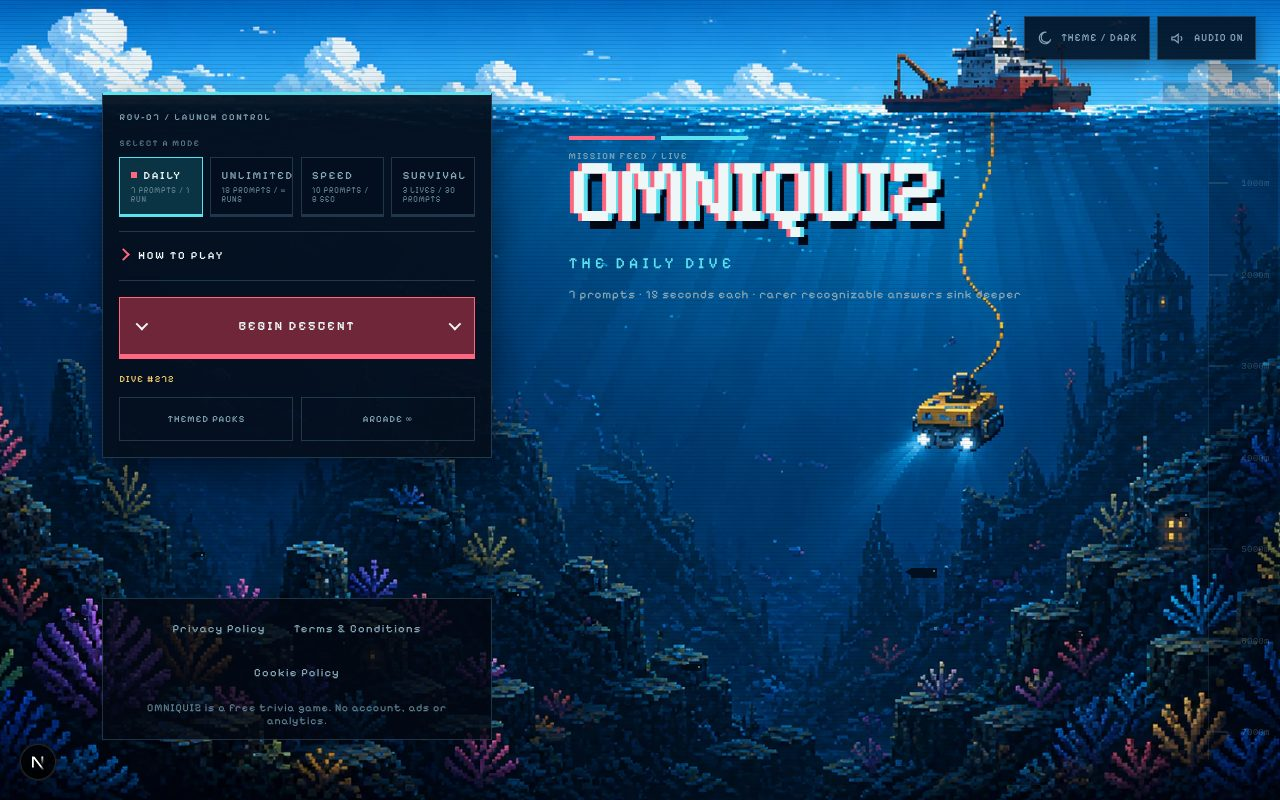
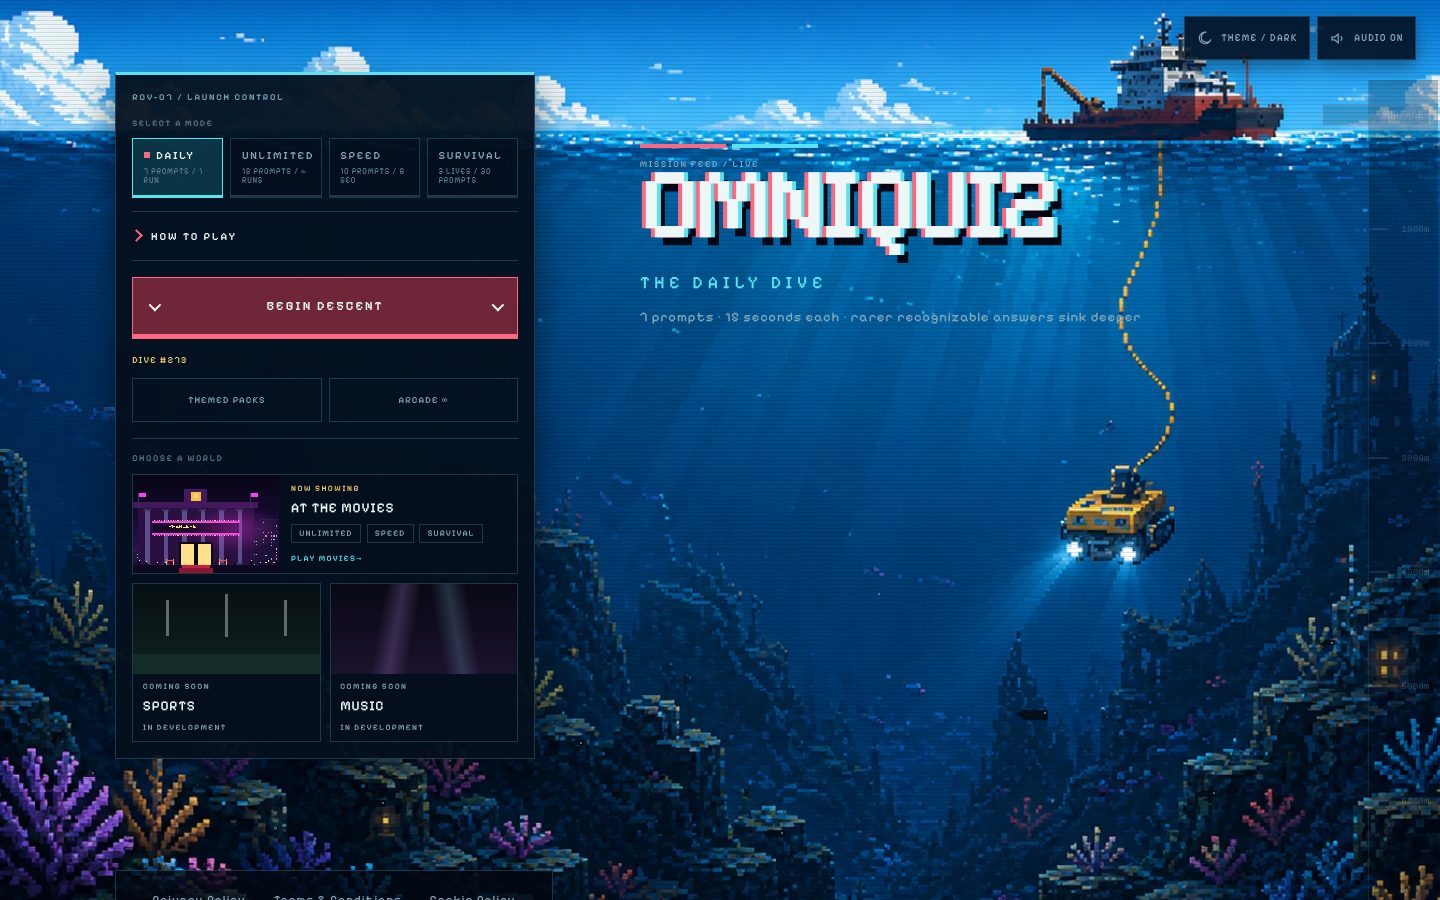
Document pack environments, navigation and Krillion status
Architecture notes cover the environment contract, how Sports and Music
would plug in, and the exit and resume rules. Content sources record the
generated cinema art. Release readiness records that Krillion is a
third-party product and lists the clean-up still required. README
screenshots show the Movies world.

Claude-Session: https://claude.ai/code/session_01V6UY6Cjog2rqtTNUkWuJcd

diff --git a/README.md b/README.md
@@ -1,6 +1,8 @@
 # OMNIQUIZ
 
-A pixel-art ocean trivia game where the *uncommon* answer wins. You get a deliberately broad prompt, type one honest answer, and the game reveals how common that answer is inside a curated answer atlas. Rarer, recognizable answers score more and sink your submersible deeper.
+A pixel-art trivia game where the *uncommon* answer wins. You get a deliberately broad prompt, type one honest answer, and the game reveals how common that answer is inside a curated answer atlas. Rarer, recognizable answers score more.
+
+Each content pack is its own world. The core game is an ocean descent where good answers sink your submersible deeper; the Movies pack is a late-night drive from the city limits, past neon marquees and a drive-in, to a premiere night, with its own interface wording.
 
 It is a free, account-free browser game with four game modes and themed content packs, built as a small full-stack TypeScript project: Next.js on Cloudflare Workers, deterministic scoring, and a server-side answer atlas that the browser never receives.
 
@@ -10,9 +12,9 @@ It is a free, account-free browser game with four game modes and themed content 
 
 ![OMNIQUIZ landing page on desktop](docs/screenshots/landing-desktop.jpg)
 
-| Themed packs | At the Movies, scored answer |
-| --- | --- |
-| ![Packs page](docs/screenshots/packs-desktop.jpg) | ![Movies feedback](docs/screenshots/movies-feedback-desktop.jpg) |
+| Choose a world | At the Movies, mid-run | At the Movies, arrival |
+| --- | --- | --- |
+| ![Packs page](docs/screenshots/packs-desktop.jpg) | ![Movies run on the neon boulevard](docs/screenshots/movies-boulevard-desktop.jpg) | ![Movies summary at premiere night](docs/screenshots/movies-summary-desktop.jpg) |
 
 ## What it does
 
@@ -42,6 +44,8 @@ It is a free, account-free browser game with four game modes and themed content 
 - **Bounded, explainable answer matching.** Case, accents, punctuation, leading articles and conservative singular/plural variants converge; there is no fuzzy or semantic matching, and expanded answer keys may not collide across families within a prompt. The validator enforces this when the catalog loads.
 - **Atlases are compiled, deterministic data.** `scripts/atlas/` holds the maintainable sources; `node scripts/generate-questions.mjs` compiles `src/data/questions.json` and `src/data/packs/movies.json`. A test asserts the output is byte-stable.
 - **Runs survive refreshes, and packs stay isolated.** Progress is restored from local storage with the pack recorded, so a Movies run can never be resumed inside a core route. Statistics are namespaced per pack.
+- **Packs choose a world, not just content.** A pack names an environment; the environment supplies ordered stages, a complete interface lexicon and a backdrop renderer. The Movies backdrop is layered, script-generated SVG pixel art moved by one CSS variable for parallax, animating only `transform` and `opacity`, with ambient motion off under `prefers-reduced-motion`. Tests fail if ocean vocabulary appears anywhere in the Movies interface, including CSS-generated labels.
+- **Leaving a run is safe.** The logo and Exit share one guard: a confirmation appears only while a prompt is on screen, the run is saved locally, and returning offers to resume it.
 - **Security headers via one proxy.** `src/proxy.ts` applies a same-origin Content-Security-Policy and hardening headers to every route in production, verified on both the Next.js server and the Cloudflare Workers runtime.
 - **Time is measured against a deadline, not ticks.** The answer clock is an absolute deadline re-synced on visibility and focus, so a backgrounded tab cannot buy extra time.
 
@@ -60,7 +64,7 @@ Cloudflare Worker (Next.js via vinext)
   src/data/*.json         compiled atlases (server only)
 ```
 
-There is no database, account system or external API. See [docs/architecture.md](docs/architecture.md) for the pack contract and how to add a pack, and [docs/content-sources.md](docs/content-sources.md) for where content comes from.
+There is no database, account system or external API. See [docs/architecture.md](docs/architecture.md) for the pack and environment contracts and how to add a pack or world, and [docs/content-sources.md](docs/content-sources.md) for where content comes from.
 
 ## Stack
 

diff --git a/docs/architecture.md b/docs/architecture.md
@@ -38,6 +38,44 @@ The catalog fails at load if:
 - an id appears in two packs, or
 - a `planned` pack ships an atlas.
 
+## Pack environments
+
+A pack also chooses the world its runs happen in. `PackMeta.environment` names it (`ocean` for Core, `cinema` for Movies; `stadium` and `venue` are reserved for Sports and Music). The environment is presentation only: the reducer, scoring and loop never read it.
+
+`src/lib/packs/environment.ts` defines the contract:
+
+| Part | Purpose |
+| --- | --- |
+| `stages` | Ordered places the run passes through, or `null` when progress is shown as depth (Core). Movies: city limits, cinema district, neon boulevard, drive-in row, premiere night. |
+| `lexicon` | Every interface string that names the world: mode titles, button labels, HUD labels, tier headings, summary copy, screen-reader notes. Core keeps its dive wording; Movies uses cinema wording. |
+| `routeProgress`, `stageIndexFor` | Pure helpers that turn the prompt index into progress (0 to 1) and the current stage. |
+
+How it reaches the screen:
+
+- `GameExperience` resolves the environment from the pack and provides the lexicon through `EnvironmentContext`, so HUD, form, feedback and summary components read `useLexicon()` instead of hard-coded strings.
+- `PackBackdrop` maps each live environment to a renderer. The map is an exhaustive `Record<LiveEnvironmentId, ...>`, so a new live environment fails to compile until it has one. Core keeps its existing ocean, speed and survival backdrops.
+- `CinemaBackdrop` is layered SVG art (`public/cinema/`, generated by `scripts/generate-cinema-art.mjs`). A `--route` CSS variable moves the layers at different rates for parallax. Only `transform` and `opacity` animate, and ambient motion (cars, neon, searchlights) sits behind `prefers-reduced-motion: no-preference`.
+- The game shell carries `data-environment` and `data-stage`, and `src/styles/cinema.css` restyles the shared chrome under `[data-environment="cinema"]`: colour tokens, marquee frames, and the labels drawn in CSS.
+
+`src/lib/packs/environment.test.ts` checks that every live pack has a renderable environment and that no ocean vocabulary appears in the cinema lexicon. `e2e/worlds-and-navigation.spec.ts` sweeps the rendered Movies screens, including CSS-generated labels, for the same terms.
+
+### Adding an environment (Sports, Music)
+
+1. Add the id to `LiveEnvironmentId`, then write its `stages` and a complete `lexicon` in `environment.ts`. The compiler lists every missing string.
+2. Add a backdrop component and register it in `PackBackdrop`'s renderer map.
+3. Add a stylesheet scoped to `[data-environment="<id>"]` for tokens and chrome, and import it from `src/app/globals.css`.
+4. Extend the vocabulary tests to cover the new lexicon.
+
+Sports would travel city, stadium exterior, concourse, tunnel, arena; Music would travel city, venue queue, backstage, stage.
+
+## Navigation and leaving a run
+
+- The logo in the HUD and the landing header is a labelled link home. During a run it goes through the same guard as the Exit control.
+- Progress is saved to the single local progress slot as the run advances. The guard asks for confirmation only while a prompt is on screen (preview, answering or submitting), because leaving then forfeits that prompt. From feedback or the summary, leaving is immediate.
+- The confirmation is a modal dialog: focus moves into it, the rest of the page is `inert`, Escape or "Keep playing" closes it and returns focus to the control that opened it.
+- A deliberate exit from the core daily route resets that route to its intro and offers "Resume your saved run". Pack routes restore a matching saved run when revisited.
+- Browser Back is ordinary history navigation; nothing is intercepted.
+
 ## Trust boundaries
 
 - The browser receives `{ id, category, prompt }` per question and nothing else before submission.

diff --git a/docs/release-readiness.md b/docs/release-readiness.md
@@ -41,7 +41,13 @@ Scope of this pass: the themed-pack architecture and At the Movies pack, plus a 
 
 ## Red: blocks public promotion until answered
 
-**Provenance of the "Krillion" material.** The repository contains six screenshots of a product called "Krillion" (`reference/krillion-*.png`). The OMNIQUIZ landing page uses near-identical wording ("THE DAILY DIVE", "7 prompts · 15 seconds each · rarer answers sink deeper", "BEGIN DESCENT", "THEMED PACKS"), and the top rarity tier is named "One in a Krillion" (also the `krillion` tier id and an e2e file name). If Krillion is the owner's own earlier project, nothing is wrong and this can be closed with a note. If it is someone else's product, publishing their screenshots and mirroring their copy and layout is an infringement and reputation risk. Nothing was deleted or renamed in this pass, because only the owner can say which case applies. The Terms page's statement that prompts, atlases and code are original work relies on this answer.
+**Third-party "Krillion" material.** The owner has confirmed that Krillion is someone else's product, used as inspiration for this game. The repository still contains six screenshots of it (`reference/krillion-*.png`), and the core landing page still mirrors its wording ("THE DAILY DIVE", "7 prompts · 15 seconds each · rarer answers sink deeper", "BEGIN DESCENT", "THEMED PACKS"). The top rarity tier is named "One in a Krillion" (also the `krillion` tier id and an e2e file name). Publishing another product's screenshots and closely mirroring its copy is an infringement and reputation risk. Nothing has been removed or renamed yet. Before public promotion:
+
+- remove `reference/` from the repository (the files remain in Git history; decide whether that matters for a public repo),
+- rewrite the core landing copy and the rarity-tier name in the project's own words, and
+- recheck the Terms page's statement that prompts, atlases and code are original work.
+
+The Movies world's copy and art were written for this project and do not reuse the landing wording above. Two of its tier names ("Too Clever", "Deep Cut") are shared with the core tiers and should be reviewed alongside them.
 
 ## Not applicable
 
@@ -71,7 +77,7 @@ Sources: search-result summaries only. The primary texts could not be opened fro
 
 ## Owner input required
 
-1. Is "Krillion" your own project or a third party's? (Red item above.)
+1. Schedule the Krillion clean-up (Red item above). Confirmed third-party; not yet done.
 2. Operator identity and contact address to publish in the Privacy Policy and Terms, and the governing law to name.
 3. Confirm the site is served through Cloudflare (the Privacy Policy says so, based on the deployment configuration) and whether Cloudflare Web Analytics, Logpush or other dashboard-level logging is enabled.
 4. Origin and licence of the pixel art in `public/ocean/` and `public/ui/`.

diff --git a/docs/content-sources.md b/docs/content-sources.md
@@ -33,11 +33,12 @@ Answer aliases that include a person's name are neutral descriptors (for example
 | --- | --- | --- |
 | Ocean, submersible, sky and UI-frame pixel art | `public/ocean/`, `public/ui/` | **Origin and licence not recorded in the repository.** Owner to confirm. |
 | Rarity tier icons | `public/ocean/tier-*.png` | Same as above. No code references these files; they are shipped but unused. |
-| Pack card art (movies, sports, music) | CSS shapes in `src/styles/routes.css` | Drawn in CSS; no external image. |
+| Cinema world pixel art (skylines, lamps, marquees, drive-in, premiere cinema, cars, moon) | `public/cinema/*.svg` | Original. Generated from rectangles by `scripts/generate-cinema-art.mjs`, which is the source of truth; rerun it to rebuild the files. All signage is generic ("NOW SHOWING", "PREMIERE", "TICKETS", "DRIVE-IN"); no film title, poster, still, studio logo or real venue is depicted. |
+| World card art (Sports, Music) | CSS gradients in `src/styles/worlds.css` | Drawn in CSS; no external image. |
 | Icons | Inline SVG in components | Authored in the repository. |
 | Sound effects | Synthesized in the browser (`src/state/AppStateProvider.tsx`, `src/lib/audio/sfx.ts`) | No audio files. |
 | Pixelify Sans | `@fontsource-variable/pixelify-sans` (self-hosted) | Distributed under the SIL Open Font License by its package. |
-| Reference screenshots | `reference/krillion-*.png` | **Screenshots of a product named "Krillion".** Ownership and permission are not recorded. See `docs/release-readiness.md`. |
+| Reference screenshots | `reference/krillion-*.png` | **Screenshots of a third-party product named "Krillion"**, kept as design inspiration. No permission is recorded; scheduled for removal. See `docs/release-readiness.md`. |
 
 The `reference/` screenshots are not used by the application at runtime.
 
